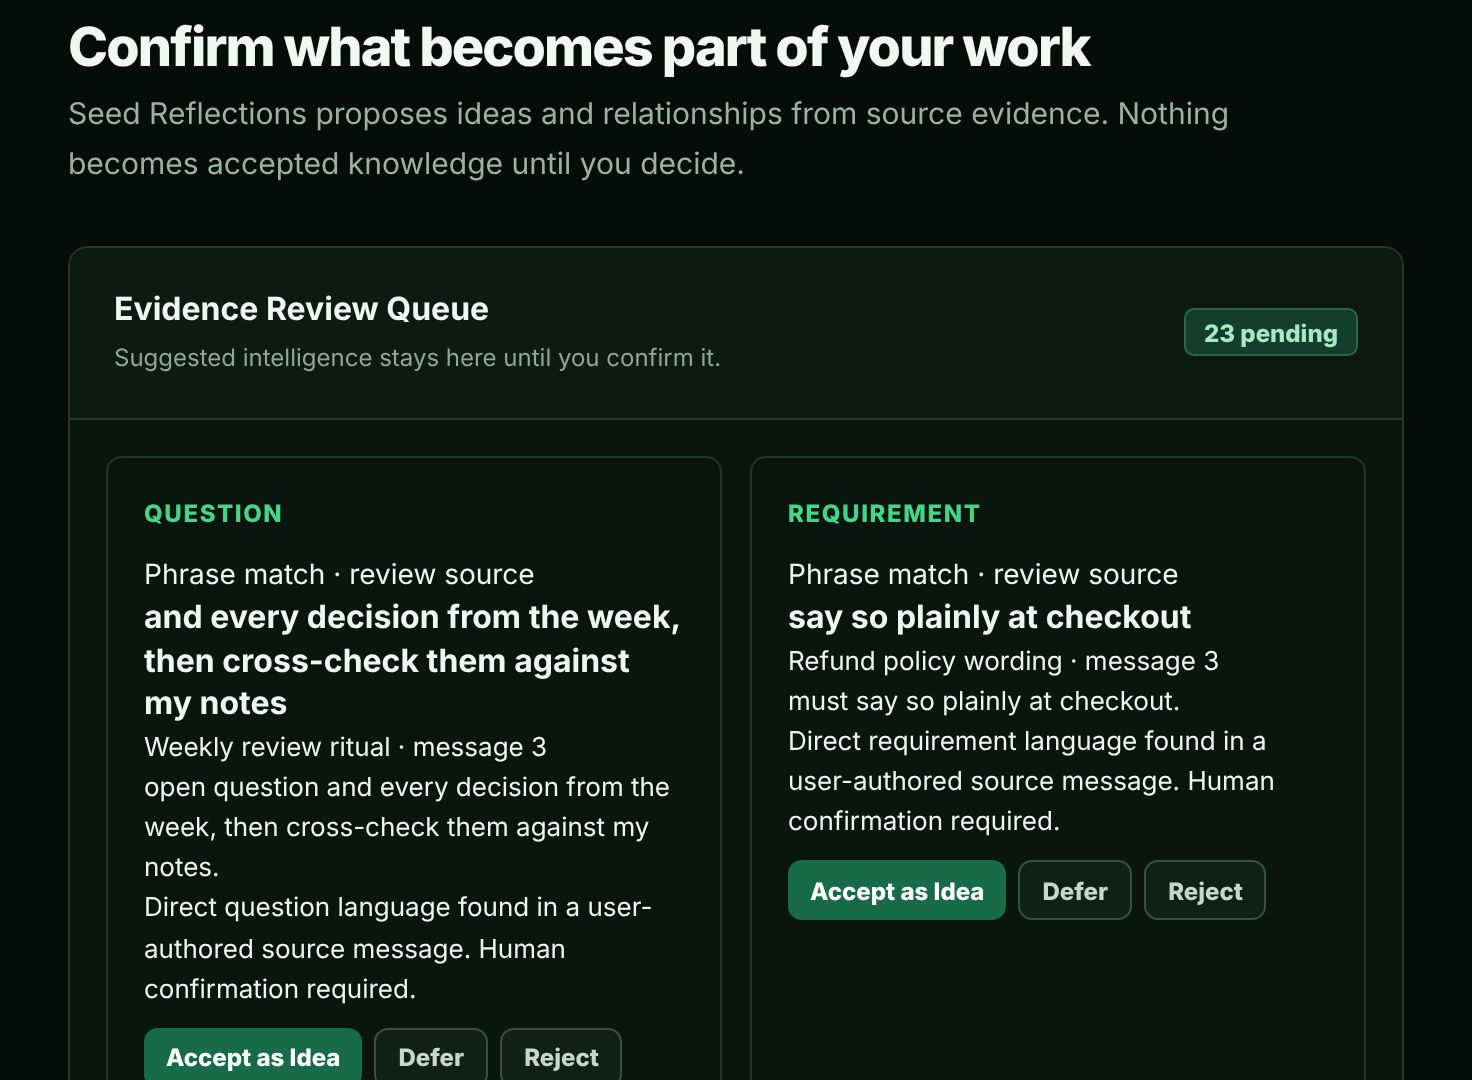
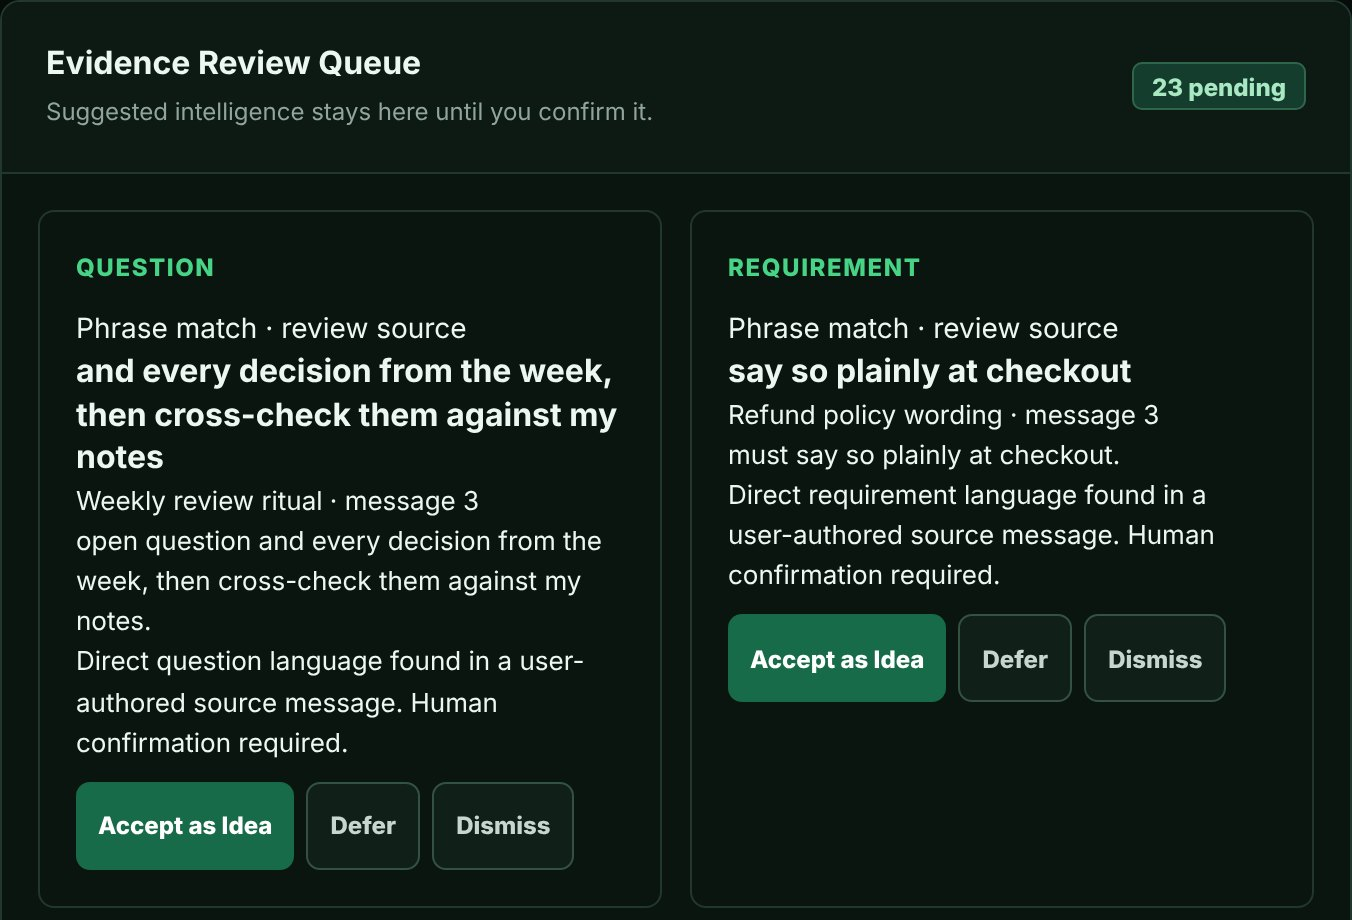
ui: readable proof screenshots; remove sideways scrollers
- 8 new 2x captures from the sample archive: desktop one-panel crops and real
  mobile-layout crops, served with <picture>
- rendered scale 1.00 at 1920/1440/900/390 (was 0.37-0.50 and a 720px scroller)
- Review figure widened; Library row full width; #ev-title size capped
- shot-frame scrollers and their tabindex stops removed

No Python, platform.js, auth, billing or data changes. 163 tests pass.

Claude-Session: https://claude.ai/code/session_01WkpLtZCoAbfMBFs5xfbSGC

diff --git a/index.html b/index.html
@@ -47,9 +47,8 @@
 
 /* ───────────────────────── screenshots ───────────────────────── */
 .shot{margin:0}
-.shot-side{grid-column:7/span 6;margin-top:8px}
-.shot-frame{display:block}
-.shot img{border-radius:6px;border:1px solid rgba(233,243,229,.28);box-shadow:0 28px 50px -20px rgba(0,0,0,.65)}
+.shot-side{grid-column:5/span 8;margin-top:8px}
+.shot img{display:block;max-width:100%;height:auto;border-radius:6px;border:1px solid rgba(233,243,229,.28);box-shadow:0 28px 50px -20px rgba(0,0,0,.65)}
 .sheet .shot img{border-color:var(--ink);box-shadow:0 24px 44px -22px rgba(16,38,28,.55)}
 .shot figcaption{margin-top:12px;font-size:.88rem;color:var(--on-field-2)}
 .sheet .shot figcaption{color:var(--ink-2)}
@@ -60,6 +59,10 @@
 .surface.flip .txt{grid-column:9/span 4;grid-row:1}
 .surface.flip .shot{grid-column:1/span 8;grid-row:1}
 .surface h3{font-size:1.75rem;margin-bottom:12px}
+.surface.wide .txt{grid-column:1/-1}
+.surface.wide .shot{grid-column:1/-1;grid-row:2}
+.surface.wide .txt p{max-width:62ch}
+#ev-title{font-size:clamp(1.9rem,2.9vw,2.6rem)}
 .surface p{color:var(--on-field-2)}
 
 /* ───────────────────────── artifacts ───────────────────────── */
@@ -110,9 +113,7 @@
   .plan.pro+.plan{border-top-color:transparent}
 }
 @media (max-width:760px){.reg-rows>div{grid-template-columns:1fr;gap:2px}
-  .shot-frame{overflow-x:auto;-webkit-overflow-scrolling:touch;border-radius:6px}
-  .shot-frame:focus-visible{outline:3px solid var(--seed,#3fb950);outline-offset:3px}
-  .shot-frame img{width:720px;max-width:none;height:auto}}
+}
 @media (max-width:359px){.price{font-size:3rem}}
 @media (max-width:480px){.reg-body{padding:18px 16px}.cta-row .link-arrow{width:auto}}
 
@@ -234,7 +235,7 @@
 <!-- ═════════ evidence ═════════ -->
 <section aria-labelledby="ev-title">
   <div class="wrap split">
-    <div class="stick" style="grid-column:1/span 5">
+    <div class="stick" style="grid-column:1/span 4">
       <h2 id="ev-title">An interpretation is only useful when you can inspect its source.</h2>
       <p class="lede" style="margin-top:22px">SeedReflections preserves the evidence behind its findings. You can inspect the original conversation or document, review how a finding was interpreted, and decide whether it belongs in your project memory.</p>
       <dl class="defs on-field-defs" style="margin-top:32px">
@@ -245,8 +246,8 @@
       <p class="small" style="margin-top:22px">What this means for you: human review, evidence lineage, verified backup and restore.</p>
     </div>
     <figure class="shot shot-side">
-      <div class="shot-frame" tabindex="0" role="group" aria-label="Screenshot (scrolls sideways on narrow screens)"><img src="assets/app-review.jpg" width="736" height="540" loading="lazy" decoding="async" alt="The Review queue: two suggested findings, each showing the source conversation and message it came from, with Accept as Idea, Defer and Reject buttons."></div>
-      <figcaption>Review. Each finding names its source conversation and message. Nothing is accepted until you decide. Sample archive.</figcaption>
+      <picture><source media="(max-width:760px)" srcset="assets/app-review-m.jpg" width="350" height="470"><img src="assets/app-review.jpg" width="676" height="460" loading="lazy" decoding="async" alt="The Review queue: two suggested findings, each showing the source conversation and message it came from, with Accept as Idea, Defer and Dismiss buttons."></picture>
+      <figcaption>Review. Read the line under each finding: it names the source conversation and message. Nothing is accepted until you decide. Sample archive.</figcaption>
     </figure>
   </div>
 </section>
@@ -257,15 +258,15 @@
     <h2 id="sf-title" style="max-width:18ch;margin-bottom:clamp(32px,4vw,56px)">Three surfaces. One continuous way of working.</h2>
     <div class="surface">
       <div class="txt"><h3>Workspace</h3><p>Add or connect sources, ask questions, focus a project, and continue work as plans, briefs, reports, task sets, and notes.</p></div>
-      <figure class="shot"><div class="shot-frame" tabindex="0" role="group" aria-label="Screenshot (scrolls sideways on narrow screens)"><img src="assets/app-workspace.jpg" width="876" height="600" loading="lazy" decoding="async" alt="The Workspace: project memory with accepted ideas and conversation threads beside the working area."></div><figcaption>The Workspace, with accepted ideas in project memory. Sample archive.</figcaption></figure>
+      <figure class="shot"><picture><source media="(max-width:760px)" srcset="assets/app-workspace-m.jpg" width="350" height="481"><img src="assets/app-workspace.jpg" width="740" height="610" loading="lazy" decoding="async" alt="The Workspace: project memory with accepted ideas and conversation threads beside the working area."></picture><figcaption>The Workspace, with accepted ideas in project memory. Sample archive.</figcaption></figure>
     </div>
-    <div class="surface flip">
+    <div class="surface wide">
       <div class="txt"><h3>Library</h3><p>Read and search conversations, review ideas and decisions, inspect sources, and keep every interpretation tied to evidence.</p></div>
-      <figure class="shot"><div class="shot-frame" tabindex="0" role="group" aria-label="Screenshot (scrolls sideways on narrow screens)"><img src="assets/app-library.jpg" width="960" height="640" loading="lazy" decoding="async" alt="The Library: a list of source conversations labelled Claude or ChatGPT, with one conversation opened to show its original messages."></div><figcaption>A source conversation opened beside the list, with its original messages. Sample archive.</figcaption></figure>
+      <figure class="shot"><picture><source media="(max-width:900px)" srcset="assets/app-library-m.jpg" width="350" height="430"><img src="assets/app-library.jpg" width="1144" height="357" loading="lazy" decoding="async" alt="The Library: a list of source conversations labelled Claude or ChatGPT, with one conversation opened to show its original messages."></picture><figcaption>A source conversation opened beside the list, with its original messages. Sample archive.</figcaption></figure>
     </div>
     <div class="surface">
       <div class="txt"><h3>Overview</h3><p>Understand archive size, recovery progress, source coverage, represented platforms, synchronization, and account status.</p><p style="margin-top:14px">Overview reports the sources actually present in your workspace.</p></div>
-      <figure class="shot"><div class="shot-frame" tabindex="0" role="group" aria-label="Screenshot (scrolls sideways on narrow screens)"><img src="assets/app-overview.jpg" width="960" height="640" loading="lazy" decoding="async" alt="The Overview: conversation, source, idea, decision and awaiting-review counts for the archive."></div><figcaption>Overview of the same sample archive.</figcaption></figure>
+      <figure class="shot"><picture><source media="(max-width:760px)" srcset="assets/app-overview-m.jpg" width="350" height="440"><img src="assets/app-overview.jpg" width="740" height="460" loading="lazy" decoding="async" alt="The Overview: conversation, source, idea, decision and awaiting-review counts for the archive."></picture><figcaption>Overview of the same sample archive.</figcaption></figure>
     </div>
     <p style="margin-top:20px"><a class="btn btn-primary" href="/consumer">Open the Workspace</a></p>
   </div>

diff --git a/docs/IMPECCABLE.md b/docs/IMPECCABLE.md
@@ -105,4 +105,5 @@ Updated as fixes land. Status: open / fixed (verified in running product) / decl
 | Audit P1: wizard step-2 label 3.24:1 | `.len-sub` used `opacity:.7`. My earlier contrast check skipped the wizard's hidden steps, so I wrongly reported 0 failures on that page. | **Fixed.** Solid `--text2` colour. Contrast now measured on **all 16 wizard states** (4 prompt types x 4 steps): 0 failures. |
 | Audit P2: auth tabs not keyboard-reachable; radio groups only Tab stops | Unselected tabs had `tabindex=-1` and no key handler; `a11y.js` radios were all Tab stops with no arrows. | **Fixed.** Tabs: Arrow/Home/End move and activate (and the existing "focus the admin password on Admin" no longer steals focus from the tab); tabs have `aria-controls`, panels have `role=tabpanel`. Radios (plan picker, wizard cards, plan tiers): one Tab stop, arrows select and focus. Verified by keystroke: 8 tab-key cases and plan picker and wizard cards. The "Forgot?" link is out of the password label, so the field's name is "Password". |
 | Audit P2: dashboard had no landmark or skip link; one unnamed select | No `<main>`, no skip link; the team role select had no name. | **Fixed.** Skip link (first Tab stop, moves focus to main); one `<main>` containing every section, with modals and the toast outside it (the Prompt tab section was moved up to make that true); team role select named. |
+| Critique P1 (both isolated runs): proof screenshots not readable | Four 1472-1920px screenshots shown at 37-50% of their size (text about 5-6px), cropped mid-component, and a 720px sideways scroller on phones. My earlier "legible" claim was wrong. | **Fixed.** Eight new captures from the live sample archive at 2x: one-panel crops for desktop (Review, Workspace, Overview at 676-740px; Library 1144px full width) and a separate real mobile-layout crop of each for phones, served through `<picture>`. Rendered scale against the app's real size, measured at 7 widths: **1.00 at 1920, 1440, 900 and 390; 0.95 at 768; 0.88-0.98 at 1100; 0.80 at 320**. Sideways scrollers removed (0 scrollers, 0 overflow); Tab stops 39 to 32. Review shot shows the corrected "Dismiss" label. Layout: Review figure widened to 8 columns, Library row is full width. Images are labelled "Sample archive"; the data is the throwaway 12-conversation sample, not real. 800 KB for all eight; a visitor loads only the desktop or the phone set. |
 
